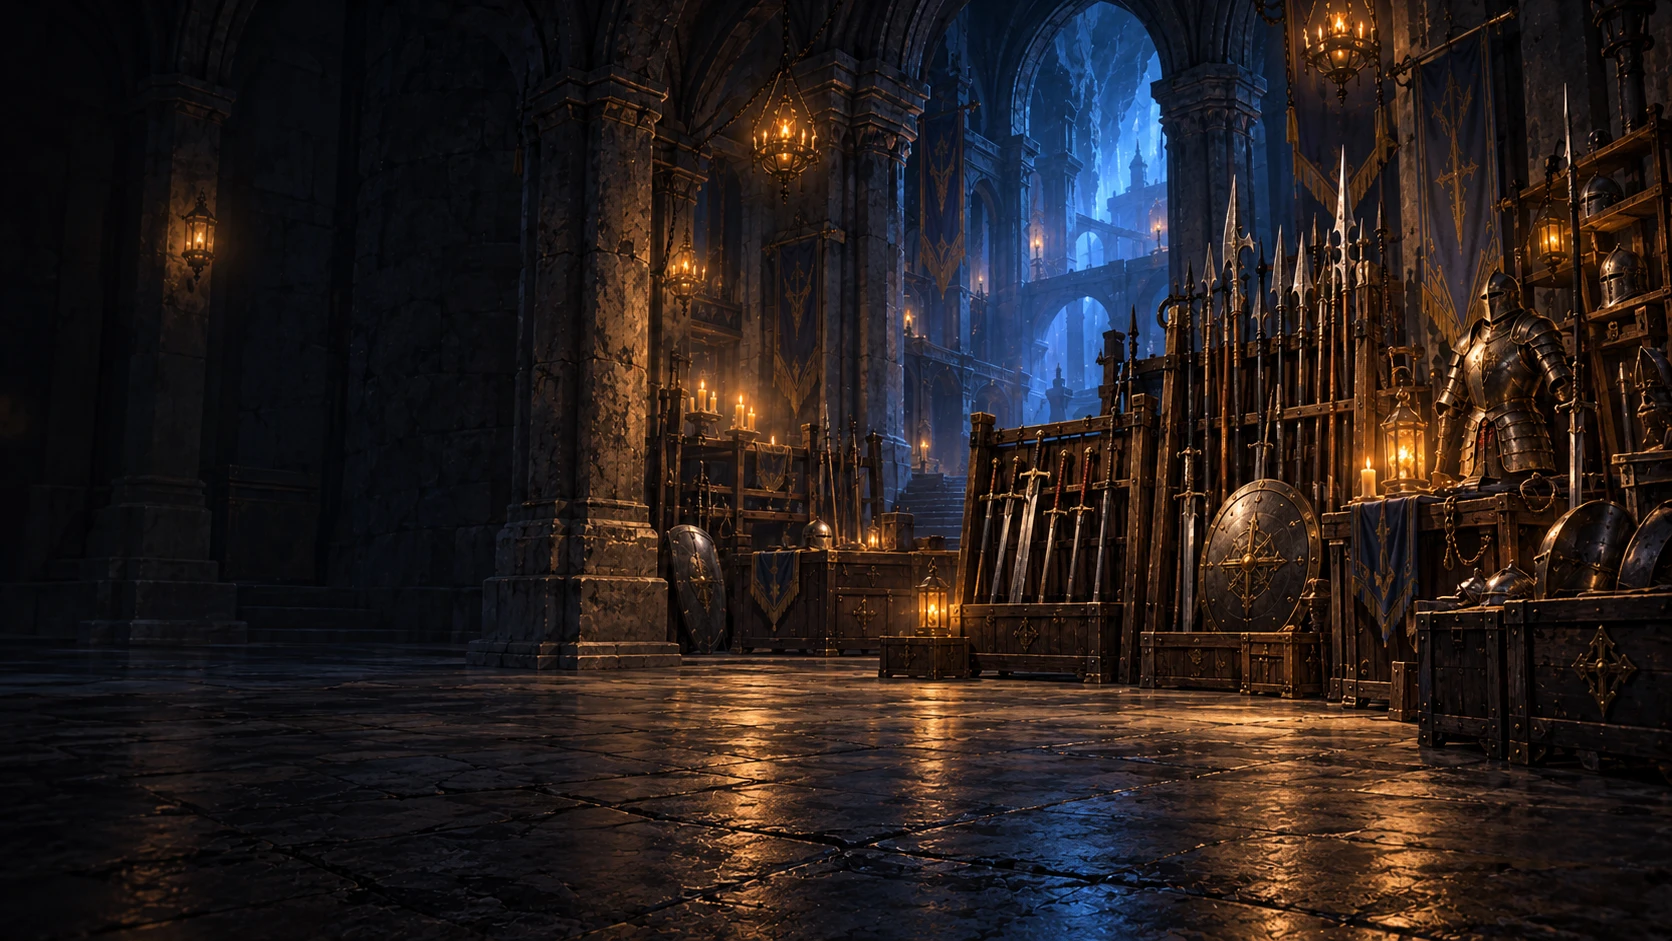
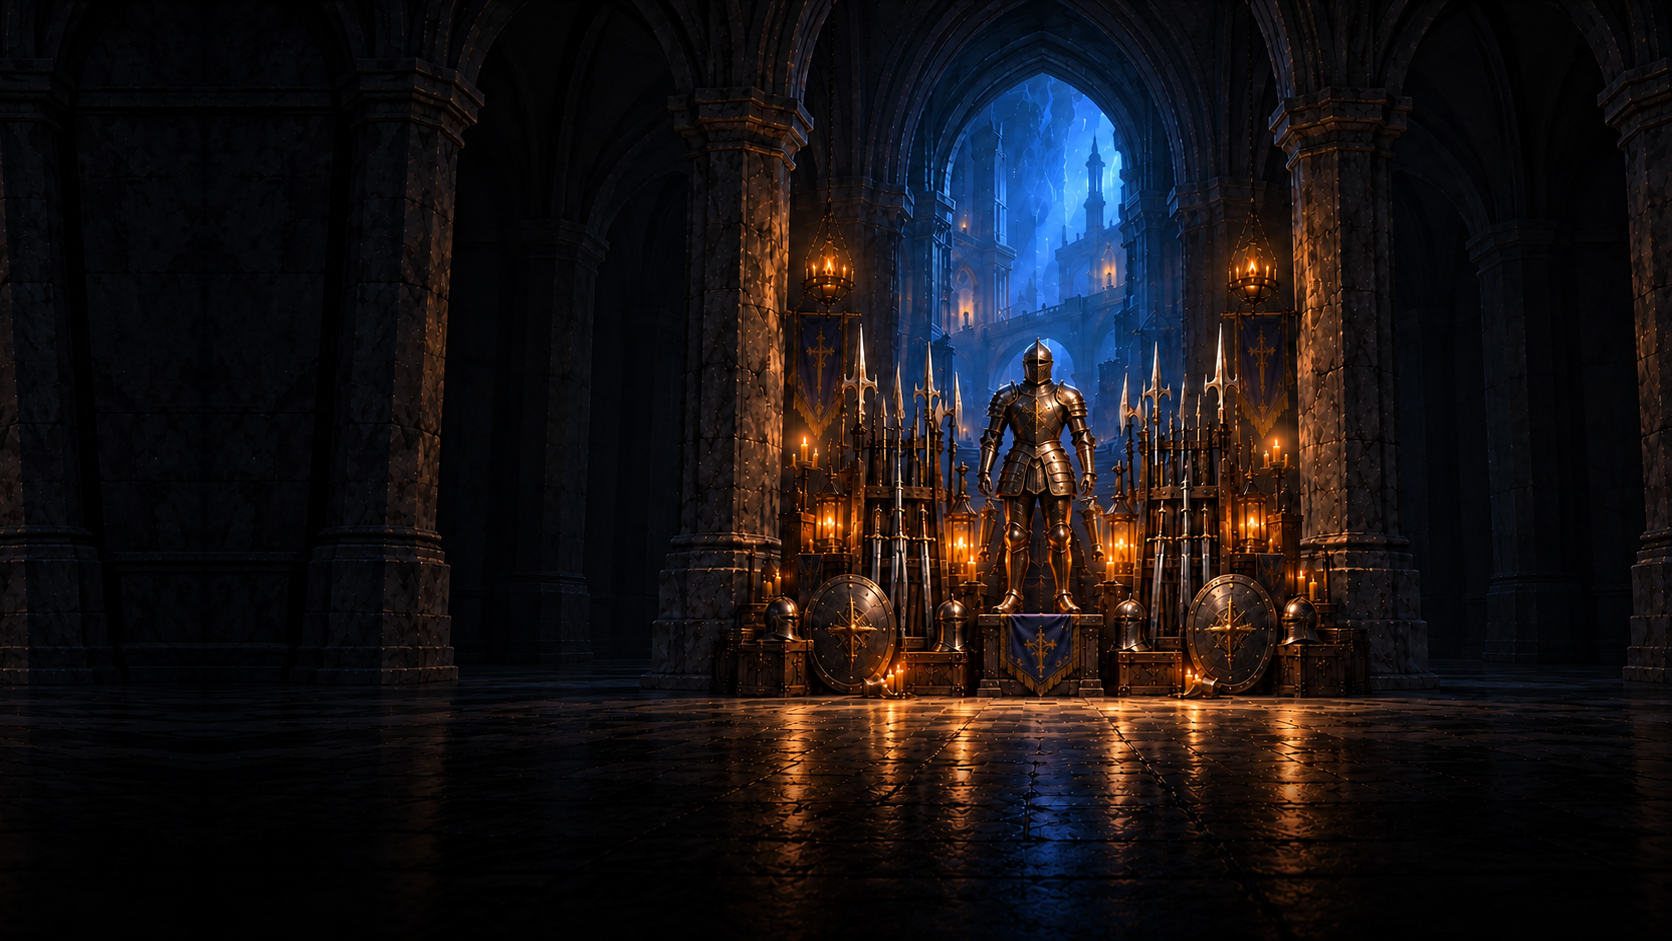
feat: dress the equipment page in generated art: a centred armoury, bronze cell frames and gem-set slot frames

diff --git a/rogue-like-play/開発メモ.md b/rogue-like-play/開発メモ.md
@@ -295,7 +295,9 @@ godot --headless --path . --log-file .godot/restart-read.log --script res://test
 
 拠点ロビーの背景`art/hub/lobby_hall.png`と立ち絵`art/characters/mio_lobby.png`は、Codexの組み込み画像生成（gpt-image-2.5）で生成しました。立ち絵は`art/characters/shiramine_mio_8dir_design.png`を参照画像として渡し、透過のまま余白だけを切り詰めています。UIと文字はGodot側で描画します。背景内の物の位置は`ui/hub_ambience.gd`の`LIGHTS`と`FOCUS`が参照するため、背景を差し替えるときは座標も合わせて直します。
 
-装備画面の背景`art/hub/pages/equipment.png`（1672×941）は、ロビーの背景と同じ広間の続きの武器庫として画像生成で用意しました。生成時の指示は記録がないため、依頼した構図を残します。16:9、ダークファンタジーの絵画調でロビーの背景と画風・光の色を揃え、人物と文字は描かない。武器棚・鎧立て・盾は画面の右寄り（横の60〜95%）、左60%は石壁と床だけの暗く静かな領域（UIの一覧が載る）、下10%は暗い床、上10%は暗い天井。絵の位置は`game/hub/hub.gd`の`PAGE_BACKGROUNDS`で画面に結びつけ、ロビーの絵の灯り（`HubAmbience.LIGHTS`）は、この絵の上では止めます。
+装備画面の背景`art/hub/pages/equipment.png`（1672×941）は、ロビーの背景と同じ広間の続きの武器庫です。左右に石板（左640px・右300px）が載るため、2枚目の版では、主役を中央に置き、左右を静かな領域にしました。Codexの組み込み画像生成（gpt-image）に、ロビーの背景と最初の武器庫の背景を画風の参考として渡し、「画面の中央40%に武器棚・鎧立て・盾を置く。左右の約30%は石柱・壁・床だけの暗く低密度の領域にする。中央の奥に冷たい青の光を放つ大きなアーチを置く。灯りの暖色と青のコントラストを強め、床に光を反射させる。人物・文字・UIは描かない。16:9」と依頼して2案を作り、左右対称で主役が明確な案を選びました（`art/hub/pages/source/armory_center_a.png`）。もう1案は主役が左へ偏るため採用せず、残していません。採用した絵は、主役の中心が2枚の石板の間の中央に来るよう、全体を右へ205px動かし（左に空いた帯は絵の左端を左右反転して埋めました）、`equipment.png`にしています。
+
+マスの枠`art/ui/cell_frame.png`（144×144）と装備枠の枠`art/ui/slot_frame.png`（208×208）は、同じくCodexの画像生成で、透過PNG（256×256、`art/hub/pages/source/`）として「暗い青銅の縁と小さな金の隅飾り、中央は絵を載せる暗い無地の面」「より重い青銅と金の縁、上中央に青い宝石」と依頼して作り、描画する大きさの約2倍へ縮めています。絵の位置は`game/hub/hub.gd`の`PAGE_BACKGROUNDS`で画面に結びつけ、ロビーの絵の灯り（`HubAmbience.LIGHTS`）は、この絵の上では止めます。絵の位置は`game/hub/hub.gd`の`PAGE_BACKGROUNDS`で画面に結びつけ、ロビーの絵の灯り（`HubAmbience.LIGHTS`）は、この絵の上では止めます。
 
 `art/hub/lobby_hall.png`の生成プロンプト（1536×1024）：
 
